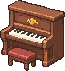
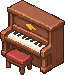
피아노를 바닥 각도에 맞는 새 그림으로 교체 (바닥 칸 18x9), 예전 배치는 가운데 기준으로 옮김, 뒤쪽 방향에서 치면 피아노가 몸을 가림
Claude-Session: https://claude.ai/code/session_017aF2aZeAYzMjvegGtH2ZQ4

diff --git a/index.html b/index.html
@@ -5,7 +5,7 @@
   <meta name="viewport" content="width=device-width, initial-scale=1">
   <title>My Cozy Room</title>
   <!-- 파일 뒤의 ?v= 번호는 업데이트할 때마다 바꿉니다. (브라우저가 옛 파일을 쓰지 않도록) -->
-  <link rel="stylesheet" href="style.css?v=20261121-1">
+  <link rel="stylesheet" href="style.css?v=20261121-2">
   <!-- 화면 전환에 꼭 필요한 규칙 (디자인 파일을 늦게 받아도 화면이 섞이지 않게) -->
   <style>
     .screen { display: none; }
@@ -470,25 +470,25 @@
   </main>
 
   <!-- 순서 중요: 데이터 → 방 → 저장 → 게임 → 집중 → 첫 화면 → 로그인 -->
-  <script src="data.js?v=20261121-1"></script>
-  <script src="rooms.js?v=20261121-1"></script>
-  <script src="save.js?v=20261121-1"></script>
-  <script src="hero-art.js?v=20261121-1"></script>
-  <script src="acc-art.js?v=20261121-1"></script>
-  <script src="pet-art.js?v=20261121-1"></script>
-  <script src="outfit-art.js?v=20261121-1"></script>
-  <script src="lie-front-art.js?v=20261121-1"></script>
-  <script src="game.js?v=20261121-1"></script>
-  <script src="focus.js?v=20261121-1"></script>
-  <script src="side.js?v=20261121-1"></script>
-  <script src="side-deco.js?v=20261121-1"></script>
-  <script src="start.js?v=20261121-1"></script>
-  <script src="friends.js?v=20261121-1"></script>
+  <script src="data.js?v=20261121-2"></script>
+  <script src="rooms.js?v=20261121-2"></script>
+  <script src="save.js?v=20261121-2"></script>
+  <script src="hero-art.js?v=20261121-2"></script>
+  <script src="acc-art.js?v=20261121-2"></script>
+  <script src="pet-art.js?v=20261121-2"></script>
+  <script src="outfit-art.js?v=20261121-2"></script>
+  <script src="lie-front-art.js?v=20261121-2"></script>
+  <script src="game.js?v=20261121-2"></script>
+  <script src="focus.js?v=20261121-2"></script>
+  <script src="side.js?v=20261121-2"></script>
+  <script src="side-deco.js?v=20261121-2"></script>
+  <script src="start.js?v=20261121-2"></script>
+  <script src="friends.js?v=20261121-2"></script>
   <!-- 구글 로그인 (Supabase) -->
   <script src="https://cdn.jsdelivr.net/npm/@supabase/supabase-js@2.45.4/dist/umd/supabase.min.js"></script>
-  <script src="cloud.js?v=20261121-1"></script>
-  <script src="gcal.js?v=20261121-1"></script>
-  <script src="news.js?v=20261121-1"></script>
-  <script src="requests.js?v=20261121-1"></script>
+  <script src="cloud.js?v=20261121-2"></script>
+  <script src="gcal.js?v=20261121-2"></script>
+  <script src="news.js?v=20261121-2"></script>
+  <script src="requests.js?v=20261121-2"></script>
 </body>
 </html>

diff --git a/game.js b/game.js
@@ -3039,9 +3039,14 @@ function drawHero() {
     ctx.clip();
     drawHeroFrame(frame, p.x, p.y + 1, flip);
     ctx.restore();
+    // 뒤쪽 그림(3·4번째 방향)이면 건반이 벽 쪽이라 캐릭터는 피아노 너머: 피아노를 다시 그려 몸을 가림
+    const pianoItem = hero.use && hero.use.item;
+    if (pianoItem && backView(pianoItem)) redrawImageParts(pianoItem, [[0, 0, 1, 1]]);
   } else {
     drawHeroFrame(frame, p.x, p.y - jump, flip);
     if (onChair) drawSeatFront(hero.seat); // 팔걸이·방석 앞쪽이 몸을 살짝 가림
+    // ver.하찮 피아노: 뒤쪽 그림이면 캐릭터가 피아노 너머라 피아노가 몸을 가림
+    if (hero.mode === "piano" && hero.use && hero.use.item && backView(hero.use.item)) redrawImageParts(hero.use.item, [[0, 0, 1, 1]]);
   }
   if (rock) ctx.restore();
   if (!useHeroArt() && hero.mode === "read" && !CHARACTER[frame]) drawActivityIcon(p); // 앉아서 읽을 때는 손에 든 책으로
@@ -4603,6 +4608,27 @@ function retireItems() {
   setTimeout(() => notify(`${total}의 판매가 끝나서 산 값만큼 코인을 돌려드렸어요.`), 0);
 }
 retireItems();
+
+// 피아노 그림을 바닥 각도에 맞게 새로 그리면서 바닥 칸이 9x18 → 18x9로 바뀜.
+// 예전에 놓은 피아노는 가운데 자리를 그대로 두고 옮김 (처음 한 번만)
+function migratePiano() {
+  if (save.pianoV2) return;
+  save.pianoV2 = true;
+  let moved = false;
+  for (const [key, list] of Object.entries(save.layouts || {})) {
+    const r = ROOMS.find((q) => q.id === key) || {};
+    for (const p of list || []) {
+      if (p.id !== "piano") continue;
+      const odd = ((p.rot != null ? p.rot : p.flip ? 1 : 0) & 1) === 1;
+      const [nw, nd] = odd ? [9, 18] : [18, 9];
+      p.x = Math.max(0, Math.min((r.width || ROOM) - nw, p.x + (odd ? 4.5 : -4.5)));
+      p.y = Math.max(0, Math.min((r.depth || ROOM) - nd, p.y + (odd ? -4.5 : 4.5)));
+      moved = true;
+    }
+  }
+  Save.save(save, { auto: !moved });
+}
+migratePiano();
 
 // 처음 시작할 방 (주소에 ?room=이 있으면 그 방)
 setRoom(params.get("room") || save.roomId);

diff --git a/data.js b/data.js
@@ -1338,7 +1338,7 @@ Object.assign(FURNITURE, {
   rolltopDesk: { name: "롤톱 책상", category: "furniture", price: 240, style: "antique", size: [8, 16, 15], image: "img/furn/rolltopDesk.png", imageSimple: "img/furn/s/rolltopDesk.png", work: [10, 8], hires: true, use: "read" },
   grandfatherClock: { name: "괘종시계", category: "furniture", price: 200, style: "antique", size: [6, 6, 26], image: "img/furn/grandfatherClock.png", imageSimple: "img/furn/s/grandfatherClock.png", hires: true },
   wardrobe: { name: "엔티크 옷장", category: "furniture", price: 260, style: "antique", size: [8, 16, 25], image: "img/furn/wardrobe.png", imageSimple: "img/furn/s/wardrobe.png", hires: true },
-  piano: { name: "피아노", category: "furniture", price: 400, style: "antique", size: [9, 18, 17], image: "img/furn/piano.png", imageSimple: "img/furn/s/piano.png", hires: true },
+  piano: { name: "피아노", category: "furniture", price: 400, style: "antique", size: [18, 9, 17], image: "img/furn/piano.png", imageSimple: "img/furn/s/piano.png", hires: true },
   gramophone: { name: "축음기", category: "prop", price: 160, kind: "goods", size: [7, 7, 15], image: "img/furn/gramophone.png", imageSimple: "img/furn/s/gramophone.png", hires: true },
   candelabra: { name: "촛대", category: "prop", price: 90, kind: "light", size: [5, 5, 16], image: "img/furn/candelabra.png", imageOff: "img/furn/candelabra-off.png", imageSimple: "img/furn/s/candelabra.png", imageSimpleOff: "img/furn/s/candelabra-off.png", hires: true, light: { x: 2.5, y: 2.5, z: 14, radius: 40 }, use: "lamp" },
   persianRug: { name: "페르시안 러그", type: "floor", category: "prop", price: 120, kind: "rug", size: [20, 24, 0.5], image: "img/furn/persianRug.png", imageSimple: "img/furn/s/persianRug.png", hires: true },
